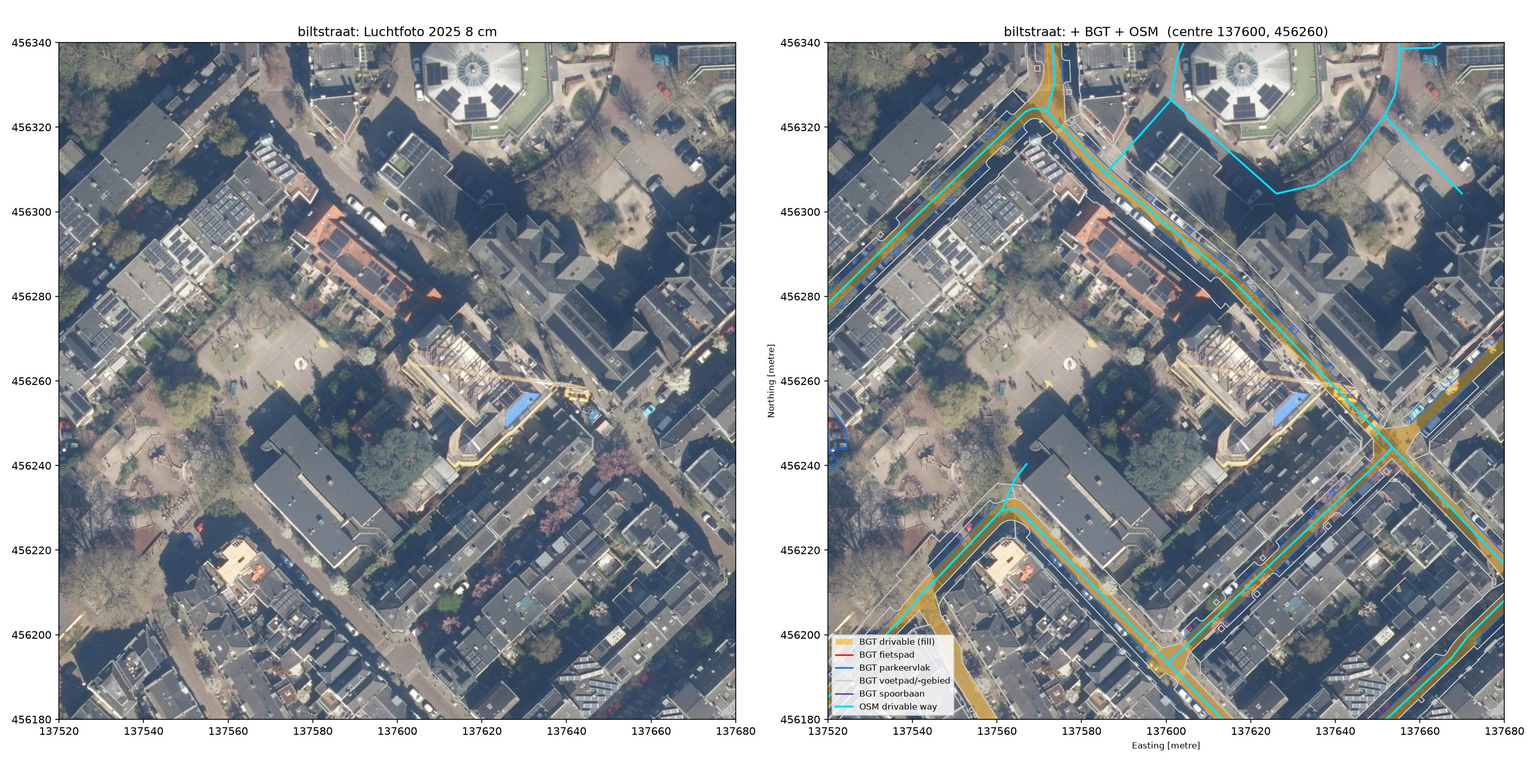
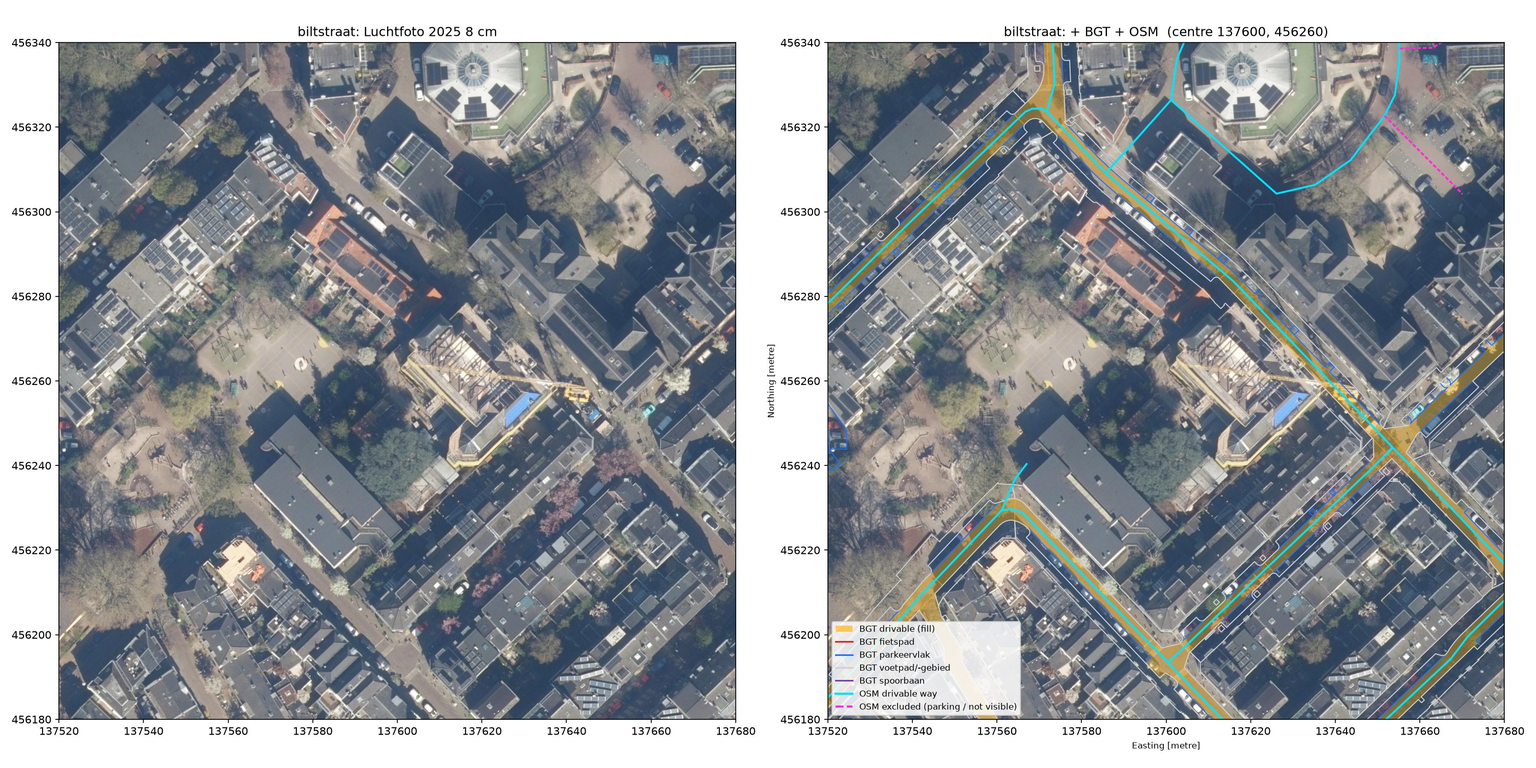
Fetch: Exclude parking and hidden roads from OSM drivable ways
Drop parking aisles and ways whose surface is hidden from aerial imagery
(tunnels, building passages, covered, indoor, underground garage levels).
Other service roads stay in. Excluded ways go to a separate "excluded"
layer with the reason and are drawn in the QA overlays. Derived GeoPackages
are now rebuilt from the cached raw downloads on every run.

utrecht_centrum: 1,136 ways kept, 185 excluded (121 parking, 54 not
visible, 10 both). Median share of service-way length inside BGT drivable
rose only from 0.22 to 0.28: 48% of the remaining service length lies on
no BGT wegdeel at all.

Changed region(s): [[0.527, 0.7973, 0.682, 0.9507], [0.93, 0.2147, 0.961, 0.2453]]

diff --git a/src/backbone/fetch.py b/src/backbone/fetch.py
@@ -116,8 +116,8 @@ def fetch_bgt(bbox: BBox, out_dir: Path, s: requests.Session) -> dict:
     all_versions = gpd.GeoDataFrame.from_features(features, crs=config.RD_EPSG)
     cur = bgt_current(all_versions)
     cur["drivable"] = cur["functie"].isin(config.BGT_DRIVABLE_FUNCTIES)
-    if not out_path.exists():
-        cur.to_file(out_path, layer="wegdeel", driver="GPKG")
+    out_path.unlink(missing_ok=True)
+    cur.to_file(out_path, layer="wegdeel", driver="GPKG")
 
     unknown = set(cur["functie"]) - config.BGT_DRIVABLE_FUNCTIES - {
         "spoorbaan", "baan voor vliegverkeer", "fietspad", "voetpad",
@@ -255,9 +255,47 @@ KEEP_TAGS = [
 ]  # fmt: skip
 
 
+def _set(tags: dict, key: str) -> bool:
+    return tags.get(key) not in (None, "no")
+
+
+def _below_ground_level(level: str | None) -> bool:
+    try:
+        return level is not None and any(float(v) < 0 for v in level.split(";"))
+    except ValueError:
+        return False
+
+
+def exclusion_reasons(tags: dict) -> list[str]:
+    """Why a drivable-highway way is left out of the label set (empty = keep).
+
+    - parking: parking aisles and similar (out of scope, see config).
+    - not_visible: the road surface is hidden from aerial imagery: tunnels and
+      building passages, covered or indoor roads, and underground garage levels.
+      A bare negative `layer` is not enough; in the pilot those are open ramps.
+    """
+    reasons = []
+    if (
+        tags.get("service") in config.OSM_PARKING_SERVICE
+        or tags.get("amenity") == "parking"
+        or "parking" in tags
+    ):
+        reasons.append("parking")
+    if (
+        _set(tags, "tunnel")
+        or _set(tags, "covered")
+        or _set(tags, "indoor")
+        or tags.get("location") in ("underground", "indoor")
+        or _below_ground_level(tags.get("level"))
+    ):
+        reasons.append("not_visible")
+    return reasons
+
+
 def osm_to_gdf(osm: dict, bbox: BBox) -> gpd.GeoDataFrame:
     """Ways as LineStrings in RD New. Node ids are kept (JSON list) so ways can
-    be split at shared nodes in Phase 2. Ways are kept whole, not clipped."""
+    be split at shared nodes in Phase 2. Ways are kept whole, not clipped.
+    `exclude` lists the reasons a way is left out (see exclusion_reasons)."""
     nodes = {e["id"]: (e["lon"], e["lat"]) for e in osm["elements"] if e["type"] == "node"}
     rows = []
     for e in osm["elements"]:
@@ -272,6 +310,7 @@ def osm_to_gdf(osm: dict, bbox: BBox) -> gpd.GeoDataFrame:
         row = {"osm_id": e["id"], **{k: tags.get(k) for k in KEEP_TAGS}}
         row["nodes"] = json.dumps(e["nodes"])
         row["tags"] = json.dumps(tags, ensure_ascii=False)
+        row["exclude"] = ";".join(exclusion_reasons(tags)) or None
         row["geometry"] = LineString([nodes[n] for n in e["nodes"]])
         rows.append(row)
     gdf = gpd.GeoDataFrame(rows, geometry="geometry", crs=config.WGS84_EPSG).to_crs(config.RD_EPSG)
@@ -293,15 +332,21 @@ def fetch_osm(bbox: BBox, out_dir: Path, s: requests.Session) -> dict:
     with gzip.open(raw_path, "rt") as f:
         osm = json.load(f)
     gdf = osm_to_gdf(osm, bbox)
-    if not out_path.exists():
-        gdf.to_file(out_path, layer="ways", driver="GPKG")
+    kept, excluded = gdf[gdf["exclude"].isna()], gdf[gdf["exclude"].notna()]
+    # Derived files are always rebuilt from the cached raw download, so rule
+    # changes take effect without refetching.
+    out_path.unlink(missing_ok=True)
+    kept.to_file(out_path, layer="ways", driver="GPKG")
+    excluded.to_file(out_path, layer="excluded", driver="GPKG")
     return {
         "endpoint": config.OVERPASS_URL,
         "query": query,
         "license": config.OSM_LICENSE,
         "osm_base_timestamp": osm["osm3s"]["timestamp_osm_base"],
-        "ways": len(gdf),
-        "highway_counts": gdf["highway"].value_counts().to_dict(),
+        "ways": len(kept),
+        "highway_counts": kept["highway"].value_counts().to_dict(),
+        "excluded_ways": excluded["exclude"].value_counts().to_dict(),
+        "excluded_length_m": excluded.length.groupby(excluded["exclude"]).sum().round().to_dict(),
         "raw_file": raw_path.name,
         "raw_sha256": sha256(raw_path),  # GPKGs embed write times, so only raw is hashed
     }

diff --git a/src/backbone/qa.py b/src/backbone/qa.py
@@ -44,12 +44,14 @@ OUTLINE_COLORS = {
     "spoorbaan": "#7a3db8",
 }
 OSM_COLOR = "#00e5ff"
+OSM_EXCLUDED_COLOR = "#ff2bd6"
 
 
 def load(area_dir: Path):
     bgt = gpd.read_file(area_dir / "bgt_wegdeel.gpkg", layer="wegdeel")
     osm = gpd.read_file(area_dir / "osm_drivable.gpkg", layer="ways")
-    return bgt, osm
+    excluded = gpd.read_file(area_dir / "osm_drivable.gpkg", layer="excluded")
+    return bgt, osm, excluded
 
 
 def read_rgb(path: Path, bbox: BBox, max_px: int | None = None):
@@ -65,7 +67,7 @@ def read_rgb(path: Path, bbox: BBox, max_px: int | None = None):
     return arr.transpose(1, 2, 0), bounds
 
 
-def draw_layers(ax, bgt, osm, lw_scale=1.0):
+def draw_layers(ax, bgt, osm, excluded, lw_scale=1.0):
     drv = bgt[bgt["drivable"]]
     drv.plot(ax=ax, linewidth=0.6 * lw_scale, edgecolor="#ffb000", **DRIVABLE_STYLE)
     for functie, color in OUTLINE_COLORS.items():
@@ -73,6 +75,8 @@ def draw_layers(ax, bgt, osm, lw_scale=1.0):
         if len(sub):
             sub.boundary.plot(ax=ax, color=color, linewidth=0.6 * lw_scale)
     osm.plot(ax=ax, color=OSM_COLOR, linewidth=1.2 * lw_scale)
+    if len(excluded):
+        excluded.plot(ax=ax, color=OSM_EXCLUDED_COLOR, linewidth=1.2 * lw_scale, linestyle=(0, (2, 1)))
 
 
 def legend(ax):
@@ -83,15 +87,16 @@ def legend(ax):
         Line2D([], [], color=OUTLINE_COLORS["voetpad"], label="BGT voetpad/-gebied"),
         Line2D([], [], color=OUTLINE_COLORS["spoorbaan"], label="BGT spoorbaan"),
         Line2D([], [], color=OSM_COLOR, lw=2, label="OSM drivable way"),
+        Line2D([], [], color=OSM_EXCLUDED_COLOR, lw=2, ls="--", label="OSM excluded (parking / not visible)"),
     ]
     ax.legend(handles=handles, loc="lower left", fontsize=8, framealpha=0.85)
 
 
-def render_overview(area_dir: Path, out: Path, bbox: BBox, bgt, osm):
+def render_overview(area_dir: Path, out: Path, bbox: BBox, bgt, osm, excluded):
     img, (l, b, r, t) = read_rgb(area_dir / "luchtfoto_25cm.tif", bbox, max_px=4000)
     fig, ax = plt.subplots(figsize=(20, 20), dpi=200)
     ax.imshow(img, extent=(l, r, b, t))
-    draw_layers(ax, bgt, osm, lw_scale=0.7)
+    draw_layers(ax, bgt, osm, excluded, lw_scale=0.7)
     ax.set_xlim(l, r)
     ax.set_ylim(b, t)
     ax.set_title(f"{area_dir.name}: Luchtfoto 2025 25 cm + BGT wegdeel + OSM (EPSG:28992)")
@@ -101,17 +106,18 @@ def render_overview(area_dir: Path, out: Path, bbox: BBox, bgt, osm):
     plt.close(fig)
 
 
-def render_crop(area_dir: Path, out: Path, label: str, x: float, y: float, bgt, osm, half=80.0):
+def render_crop(area_dir: Path, out: Path, label: str, x: float, y: float, bgt, osm, excluded, half=80.0):
     bb = BBox(x - half, y - half, x + half, y + half)
     img, (l, b, r, t) = read_rgb(area_dir / "luchtfoto_8cm.tif", bb)
     clip = bgt.cx[l:r, b:t]
     osm_clip = osm.cx[l:r, b:t]
+    excl_clip = excluded.cx[l:r, b:t]
     fig, axes = plt.subplots(1, 2, figsize=(20, 10), dpi=150)
     for ax in axes:
         ax.imshow(img, extent=(l, r, b, t))
         ax.set_xlim(l, r)
         ax.set_ylim(b, t)
-    draw_layers(axes[1], clip, osm_clip, lw_scale=1.5)
+    draw_layers(axes[1], clip, osm_clip, excl_clip, lw_scale=1.5)
     axes[0].set_title(f"{label}: Luchtfoto 2025 8 cm")
     axes[1].set_title(f"{label}: + BGT + OSM  (centre {x:.0f}, {y:.0f})")
     legend(axes[1])
@@ -210,12 +216,12 @@ def run(name: str, bbox: BBox, crops) -> Path:
     area_dir = DATA_DIR / name
     out_dir = REPORTS_DIR / name
     out_dir.mkdir(parents=True, exist_ok=True)
-    bgt, osm = load(area_dir)
+    bgt, osm, excluded = load(area_dir)
     log.info("overview ...")
-    render_overview(area_dir, out_dir / "overview.jpg", bbox, bgt, osm)
+    render_overview(area_dir, out_dir / "overview.jpg", bbox, bgt, osm, excluded)
     for label, x, y in crops:
         log.info("crop %s ...", label)
-        render_crop(area_dir, out_dir / f"crop_{label}.jpg", label, x, y, bgt, osm)
+        render_crop(area_dir, out_dir / f"crop_{label}.jpg", label, x, y, bgt, osm, excluded)
     log.info("alignment ...")
     res = alignment_check(area_dir, out_dir, bbox, bgt)
     for key, r in res.items():

diff --git a/tests/test_sources.py b/tests/test_sources.py
@@ -5,7 +5,13 @@ import pytest
 from shapely.geometry import box
 
 from backbone.areas import AREAS, BBox
-from backbone.fetch import bgt_current, is_drivable_highway, osm_to_gdf, overpass_query
+from backbone.fetch import (
+    bgt_current,
+    exclusion_reasons,
+    is_drivable_highway,
+    osm_to_gdf,
+    overpass_query,
+)
 
 
 def test_wgs84_envelope_contains_rd_bbox():
@@ -65,6 +71,7 @@ def test_osm_to_gdf_filters_and_keeps_nodes():
     ]
     gdf = osm_to_gdf({"elements": nodes + ways}, AREAS["utrecht_centrum"].bbox)
     assert list(gdf["osm_id"]) == [100]
+    assert gdf.iloc[0]["exclude"] is None
     assert gdf.crs.to_epsg() == 28992
     assert gdf.iloc[0]["nodes"] == "[1, 2, 3]"
     assert gdf.iloc[0]["lanes"] == "2"
@@ -106,3 +113,31 @@ def test_write_json_gz_is_byte_reproducible(tmp_path):
     time.sleep(1.1)  # gzip mtime has 1 s resolution
     write_json_gz({"x": [1, 2, 3]}, b)
     assert sha256(a) == sha256(b)
+
+
+@pytest.mark.parametrize(
+    "tags,expected",
+    [
+        ({"highway": "service"}, []),
+        ({"highway": "service", "service": "driveway"}, []),
+        ({"highway": "service", "service": "alley"}, []),
+        ({"highway": "service", "service": "parking_aisle"}, ["parking"]),
+        ({"highway": "service", "parking": "underground"}, ["parking"]),
+        ({"highway": "service", "tunnel": "yes", "layer": "-1"}, ["not_visible"]),
+        ({"highway": "residential", "tunnel": "building_passage"}, ["not_visible"]),
+        ({"highway": "service", "tunnel": "no"}, []),
+        ({"highway": "service", "covered": "yes"}, ["not_visible"]),
+        ({"highway": "service", "covered": "no"}, []),
+        ({"highway": "service", "indoor": "yes"}, ["not_visible"]),
+        ({"highway": "service", "location": "underground"}, ["not_visible"]),
+        ({"highway": "service", "level": "-1"}, ["not_visible"]),
+        ({"highway": "service", "level": "0;-1"}, ["not_visible"]),
+        ({"highway": "service", "level": "1"}, []),
+        ({"highway": "service", "level": "garbage"}, []),
+        # Open ramp into a garage: negative layer alone stays in.
+        ({"highway": "service", "service": "driveway", "layer": "-1", "incline": "down"}, []),
+        ({"highway": "service", "service": "parking_aisle", "level": "-1"}, ["parking", "not_visible"]),
+    ],
+)
+def test_exclusion_reasons(tags, expected):
+    assert exclusion_reasons(tags) == expected

diff --git a/src/backbone/config.py b/src/backbone/config.py
@@ -64,5 +64,8 @@ OSM_DRIVABLE_HIGHWAYS = frozenset(
     }
 )
 OSM_LINK_HIGHWAYS = frozenset({"motorway", "trunk", "primary", "secondary", "tertiary"})
+# Parking is out of scope; other service roads (driveways, alleys, ...) stay in
+# (decision 2026-10-12).
+OSM_PARKING_SERVICE = frozenset({"parking_aisle", "parking"})
 
 USER_AGENT = "backbone-research/0.1 (road surface polygons from aerial imagery)"

diff --git a/reports/phase1/README.md b/reports/phase1/README.md
@@ -17,7 +17,7 @@ uv run --group dev pytest
 | BGT wegdeel | OGC API Features `https://api.pdok.nl/kadaster/bgt/ogc/v1/collections/wegdeel/items`, native EPSG:28992 | current versions only (see below) | CC0 1.0 |
 | Luchtfoto 8 cm | WMS `https://service.pdok.nl/hwh/luchtfotorgb/wms/v1_0` | `2025_orthoHR` | CC BY 4.0, credit Beeldmateriaal.nl |
 | Luchtfoto 25 cm | same | `2025_ortho25` | CC BY 4.0, credit Beeldmateriaal.nl |
-| OSM | Overpass `https://overpass-api.de/api/interpreter` | drivable `highway` values from SPEC, no `track`, no `area=yes` | ODbL 1.0 |
+| OSM | Overpass `https://overpass-api.de/api/interpreter` | drivable `highway` values from SPEC, no `track`, no `area=yes`, no parking, no roads hidden from above (see below) | ODbL 1.0 |
 
 BGT `functie` values come from the BGT catalogue (FunctieWeg codelist,
 https://docs.geostandaarden.nl/imgeo/catalogus/bgt/). Drivable = `rijbaan *`,
@@ -29,7 +29,8 @@ https://docs.geostandaarden.nl/imgeo/catalogus/bgt/). Drivable = `rijbaan *`,
 |---|---|
 | BGT versions returned by API | 26,426 |
 | BGT current objects | 10,260 (2,861 drivable) |
-| OSM drivable ways | 1,321 (642 residential, 408 service, 138 unclassified, 93 tertiary, 40 secondary) |
+| OSM drivable ways kept | 1,136 (638 residential, 229 service, 136 unclassified, 93 tertiary, 40 secondary) |
+| OSM ways excluded | 185: 121 parking (5.1 km), 54 not visible (2.0 km), 10 both |
 | Imagery 8 cm | 25,000 x 25,000 px, 159 MB, 0.07% blank |
 | Imagery 25 cm | 8,000 x 8,000 px, 25 MB, 0.02% blank |
 
@@ -42,9 +43,19 @@ https://docs.geostandaarden.nl/imgeo/catalogus/bgt/). Drivable = `rijbaan *`,
   search range and come from roof edges: the 25 cm flight leans buildings
   differently, and BGT's outer road boundaries follow the facades.
 
+**OSM exclusions** (`fetch.exclusion_reasons`, decision 2026-10-12). Excluded
+ways are kept in the `excluded` layer of `osm_drivable.gpkg` and drawn dashed
+magenta in the overlays.
+- `parking`: `service=parking_aisle|parking`, any `parking=*`, `amenity=parking`.
+- `not_visible`: `tunnel` (incl. `building_passage`), `covered`, `indoor`,
+  `location=underground|indoor`, or a negative `level`. This applies to all
+  classes; 6 of the 64 are residential or unclassified, e.g. Catharijnesingel
+  under Hoog Catharijne. A negative `layer` alone does not exclude: in this area
+  those are open garage ramps.
+
 **OSM vs BGT:** share of each OSM way's length that lies inside BGT drivable polygons
 (median): residential, secondary, tertiary, unclassified 1.00 (mean 0.92 to 0.96);
-service 0.22.
+service 0.28 (was 0.22 before the exclusions).
 
 **By eye:** `overview.jpg` and the three 8 cm crops (`crop_*.jpg`) show BGT
 kerbs on the visible kerbs and OSM centrelines inside the carriageways.
@@ -60,15 +71,20 @@ kerbs on the visible kerbs and OSM centrelines inside the carriageways.
    not a resample. For the Phase 4 resolution augmentation, downsampling the
    8 cm imagery gives consistent pairs; the 25 cm product is better kept as a
    separate domain test.
-3. **OSM `service` ways mostly have no BGT drivable surface** (131 parking
-   aisles, 67 driveways, ~200 untyped, often in private courtyards). BGT maps
-   those as `parkeervlak` or not as wegdeel at all. Decide before Phase 2 whether
-   `service=parking_aisle` and `service=driveway` stay in scope.
-4. **BGT calls some pedestrian squares `rijbaan lokale weg`**, e.g. the
+3. **OSM `service` ways often have no BGT drivable surface, even after the
+   exclusions.** Of the 9.6 km of remaining service ways, 48% lies on no
+   wegdeel at all (private yards and courtyards, presumably in other BGT
+   layers), 33% on `rijbaan lokale weg`, 9% on `voetpad` and 6% on `parkeervlak`.
+   Underground roads were only a small part of the mismatch.
+4. **BGT keeps covered roads at ground level.** The carriageway under
+   Hoog Catharijne is `rijbaan lokale weg` with `relatieve_hoogteligging = 0`,
+   although a building covers it. Filtering BGT by level will not remove it;
+   masking with the BGT `pand` layer might.
+5. **BGT calls some pedestrian squares `rijbaan lokale weg`**, e.g. the
    market square in `crop_market_square.jpg` and the square in the top left of
    `crop_pausdam.jpg`, with no OSM drivable way on them. These will show up as
    unmatched polygons in Phase 3.
-5. `calamiteitendoorsteek` and `woonerf` do not occur in this area, so their
+6. `calamiteitendoorsteek` and `woonerf` do not occur in this area, so their
    handling is untested.
-6. Imagery is pinned to the 2025 layers; BGT and OSM are live snapshots (dates
+7. Imagery is pinned to the 2025 layers; BGT and OSM are live snapshots (dates
    in `data/<area>/manifest.json`), so the imagery can lag recent road works.
